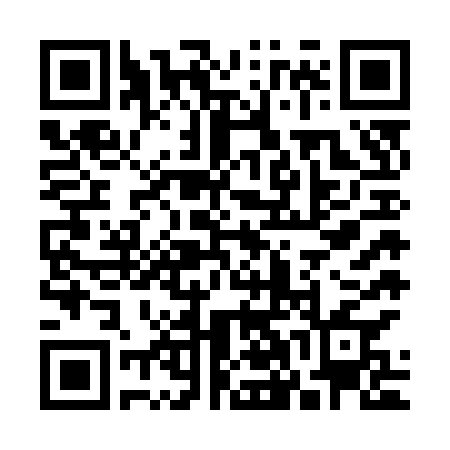
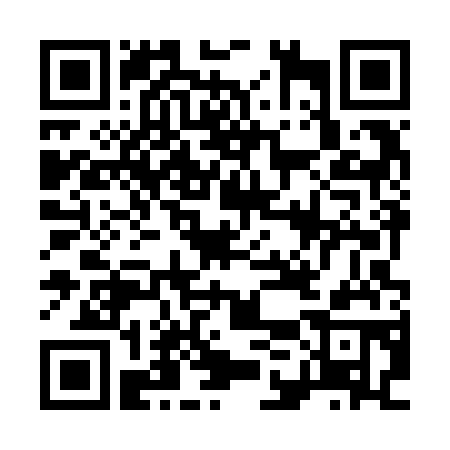
QR-Codes: direkte Ansprechpartner-Seite pro Land
CH /ch und DE /de (Links von David), UK englisch mit /gb (der Link mit
/uk funktioniert nicht), FR französisch mit /fr. QR-Bilder neu erzeugt
und mit jsQR geprüft. sw.js VERSION v14.

Claude-Session: https://claude.ai/code/session_01KFi8zUdTtzFizFuq3yKNSm

Changed region(s): [[0.0622, 0.0622, 0.9333, 0.9333]]

diff --git a/js/config.js b/js/config.js
@@ -33,13 +33,14 @@ const CONFIG = {
   //  Prüfen: qr/index.html zeigt alle QR-Codes mit Link.
   countries: [
     { key: 'CH', name: 'SCHWEIZ / SUISSE', lang: 'de',
-      contactUrl: 'https://www.vacuubrand.com/ch/de/service-beratung/kontakt/ansprechpartner-weltweit?tx_branddistributors_vacuubranddistributors%5Baction%5D=search&tx_branddistributors_vacuubranddistributors%5Bcontroller%5D=VacuuBrandDistributor&cHash=9abe530addce1913d335150179acf00a' },
+      contactUrl: 'https://www.vacuubrand.com/ch/de/service-beratung/kontakt/ansprechpartner-weltweit/ch' },
     { key: 'DE', name: 'DEUTSCHLAND', lang: 'de',
-      contactUrl: 'https://www.vacuubrand.com/ch/de/service-beratung/kontakt/ansprechpartner-weltweit?tx_branddistributors_vacuubranddistributors%5Baction%5D=search&tx_branddistributors_vacuubranddistributors%5Bcontroller%5D=VacuuBrandDistributor&cHash=9abe530addce1913d335150179acf00a' },
+      contactUrl: 'https://www.vacuubrand.com/ch/de/service-beratung/kontakt/ansprechpartner-weltweit/de' },
+    // UK: Kürzel /gb (nicht /uk). Englische Seite, zeigt die Ansprechpartner für UK und Irland
     { key: 'UK', name: 'UK / IRELAND', lang: 'en',
-      contactUrl: 'https://www.vacuubrand.com/ch/en/service-advice/contact/contacts-worldwide' },
+      contactUrl: 'https://www.vacuubrand.com/ch/en/service-advice/contact/contacts-worldwide/gb' },
     { key: 'FR', name: 'FRANCE', lang: 'fr',
-      contactUrl: 'https://www.vacuubrand.com/ch/fr/services-et-conseils/contact/contacts-dans-le-monde-entier' }
+      contactUrl: 'https://www.vacuubrand.com/ch/fr/services-et-conseils/contact/contacts-dans-le-monde-entier/fr' }
   ],
   countrySelectSeconds: 60,    // ohne Eingabe zurück zum Titel
 

diff --git a/sw.js b/sw.js
@@ -3,7 +3,7 @@
 // Bei jeder neuen Version VERSION erhöhen, damit Tablets die neuen Dateien holen.
 // Hinweis: Der Cache-Name behält absichtlich den alten Namen "vakuumus" (Professor heisst jetzt Vacuumus).
 // Nur die Nummer hochzählen, damit installierte Tablets sauber aktualisieren.
-const VERSION = 'vakuumus-v13';
+const VERSION = 'vakuumus-v14';
 const FILES = [
   './',
   'index.html',

diff --git a/CLAUDE.md b/CLAUDE.md
@@ -24,7 +24,7 @@ Siehe `TECHNIK.md` (Dateien, Mechanik, Datenformat, Mehrsprachigkeit, Länder, K
 
 ## Aktueller Spielstand (Kurzfassung)
 - **Ablauf:** Titel (Gerätesprache) → Land & Sprache (4 Flaggen CH, DE, UK, FR + Sprachzeile DE/EN/FR) → Anmeldung in gewählter Sprache (messe: Vorname, Name, Firma, E-Mail, Einwilligung, Newsletter / online: Spitzname) → Anleitung → Runde (120 s) → Ergebnis mit Medaillen → Kontakt-Seite mit grossem QR-Code des gewählten Landes (bleibt bis Klick) → Bestenliste (heute / ganze Messe, öffentlich nur „Vorname N.“) → Titel, wieder Gerätesprache.
-- **Sprachen und Länder (Wunsch UK-Team):** `CONFIG.countries` in `js/config.js` mit `contactUrl` pro Land (CH und DE: Davids allgemeiner Link zur Ansprechpartner-Suche, UK: englische, FR: französische Fassung, genauere Links pro Land kann David nachliefern). Gerätesprache `defaultLang` und Admin-Sprache `adminLang` im Admin; online gilt die Browsersprache. Export mit Land und Sprache. Prüfseite für QR-Codes: `qr/index.html` (Bilder `qr/QR_*.png` nach Link-Änderung neu erzeugen, siehe TECHNIK.md).
+- **Sprachen und Länder (Wunsch UK-Team):** `CONFIG.countries` in `js/config.js` mit `contactUrl` pro Land (Ansprechpartner-Seite pro Land: CH `…/ansprechpartner-weltweit/ch`, DE `…/de`, UK englisch `…/contacts-worldwide/gb` (nicht `/uk`, das geht nicht), FR französisch `…/contacts-dans-le-monde-entier/fr`). Gerätesprache `defaultLang` und Admin-Sprache `adminLang` im Admin; online gilt die Browsersprache. Export mit Land und Sprache. Prüfseite für QR-Codes: `qr/index.html` (Bilder `qr/QR_*.png` nach Link-Änderung neu erzeugen, siehe TECHNIK.md).
 - **5 Zonen, 330 Kacheln:** Filtrationslabor (ME 1C), Zellkultur-Labor (BVC professional mit VHC, saugt dort alles, ×2 Punkte), Verdampfer-Labor (PC 3001 VARIO select), Chemielabor (MD 4C VARIO select), Hochvakuum-Technikum (VACUU·PURE 10C, Endgegner Dampf-Krake, nur mit Pumpe Stufe 4). Abgründe sind Auffangwannen.
 - **Extras:** Schutzausrüstung (Brille, Handschuhe, Helm, Schuhe), VACUU·VIEW extended (+10 s), VACUU·LAN-Plattformen, Combo bis ×8 mit Timer-Kasten, 6 Medaillen, Zeitleiste, Musik pro Zone, Preis-Anzeige (Admin), Kontakt-QR (`contactUrl`). Produkt-Banner beim Einsammeln vorerst aus (`productBanners`), bis Marketing die Texte freigibt.
 - **Steuerung:** Tastatur, Gamepad, Joystick (inkl. Hat-Steuerkreuz), Touch (links ◀ ▶, rechts SPRUNG über SAUGEN, Naht drückt beide; kein Sprint/Ducken auf Touch), eigene Knopfbelegung im Admin („Controller einrichten“).
